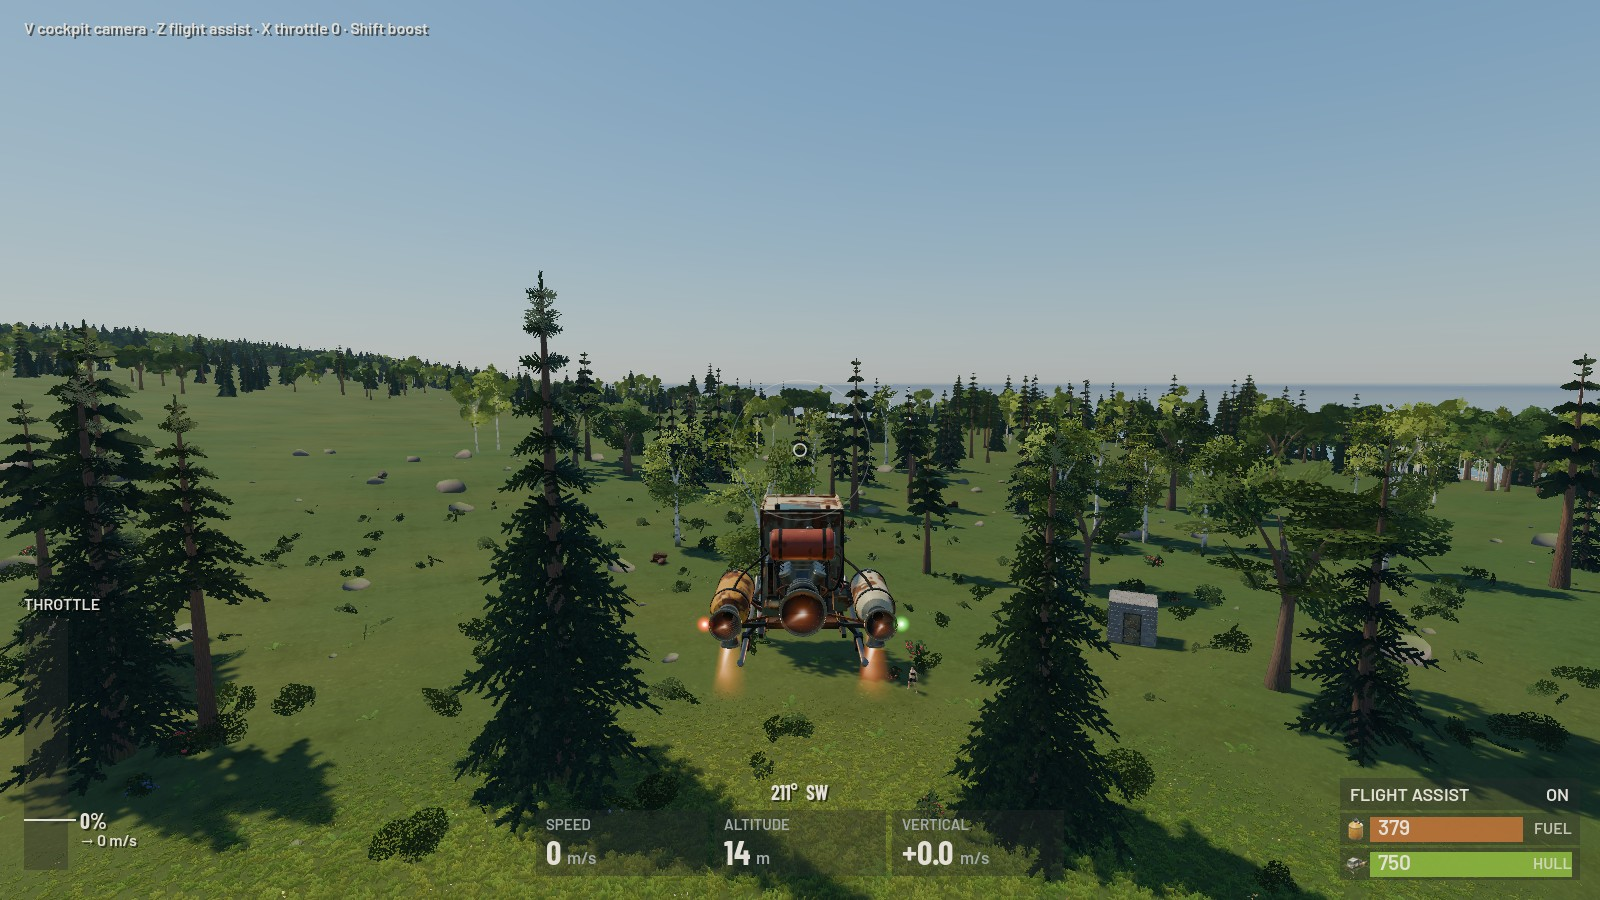
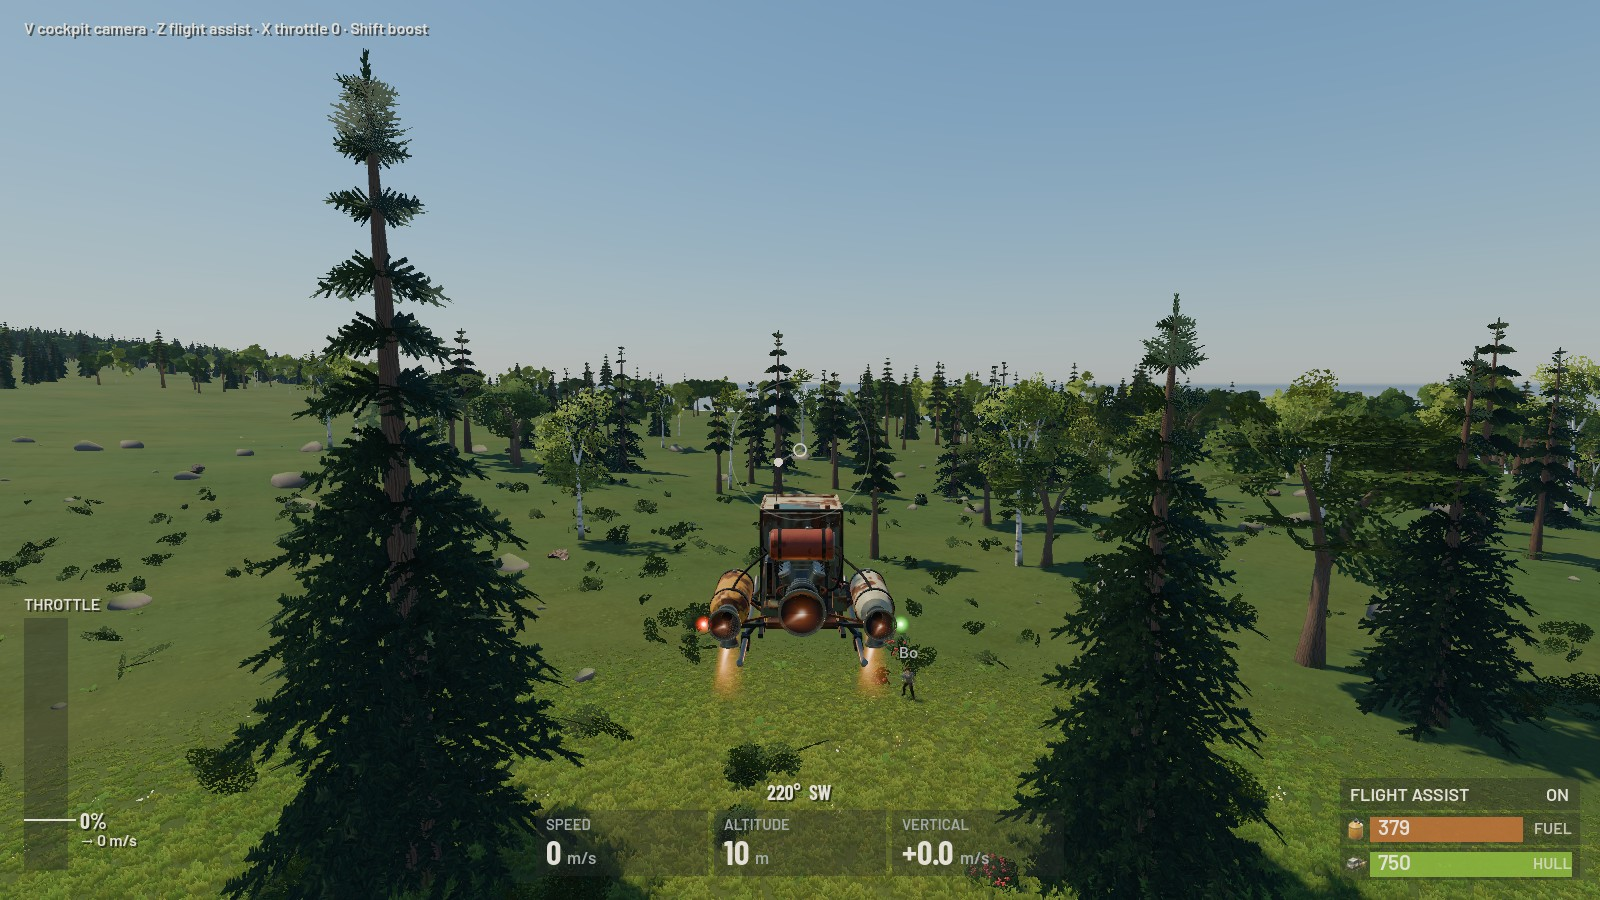
Ground pass 4: pictures from the whole tour, progress log
- The full screenshot run (all steps, two clients) after G7a: new pictures
  of the props, the recycler running with its lamp, the research table
  before and after; the chase camera retaken with the second player below.
- The tour's world step clears the inventory first, places the workbench,
  research table and bag where the ground allows (logging refusals), and
  takes the props from the clearest side.
- GROUND.md 5.6 pictures; progress log: pass 4 finished.

Build green, 145/145 tests (GunNetTests.GunfightOverTheNetwork timed out
once under the PC's load and passed on its own and in the next full run).

diff --git a/game/scripts/Ground/GroundTour.cs b/game/scripts/Ground/GroundTour.cs
@@ -28,10 +28,10 @@ namespace HollowUniverse.Ground;
 /// through the game at the landing site that saves one picture per moment (the HUD by berry bushes, picking berries,
 /// the inventory, crafting, the other player, chopping a tree and after, an outcrop, a rifle fired down the sights, a
 /// base being built with the plan's ghost, a finished hut with a code lock and its keypad, a timed charge on its wall
-/// and the blast, a firefight at the hut, the death screen, night by a fire) and
-/// quits; with <c>--tour guest</c>, a second client that dresses in what it is given, takes up its hatchet and
-/// faces the host, and fires a rifle it is given at the nearest building wall. Pictures are 1600 × 900 JPEG at the
-/// window's size.
+/// and the blast, a firefight at the hut, the Tin Finch crafted, boarded, flown and landed, G7's team, props, recycler,
+/// tech tree, research table and map, the death screen, night by a fire) and quits; with <c>--tour guest</c>, a second
+/// client that dresses in what it is given, takes up its hatchet and faces the host, fires a rifle it is given at the
+/// nearest building wall, and takes a team invite. Pictures are 1600 × 900 JPEG at the window's size.
 /// </summary>
 public partial class GroundTour : Node
 {
@@ -1074,6 +1074,16 @@ public partial class GroundTour : Node
     // with a node unlocked, a research table before and after, a blueprint read, and the map with markers and the team.
     private async Task World()
     {
+        // Room in the inventory: what the earlier steps left goes on the ground (the pictures are taken away from it).
+        for (int i = 0; i < Me.Inventory.Main.Size; i++)
+        {
+            if (!Me.Inventory.Main[i].IsEmpty)
+            {
+                Me.Drop(ContainerRef.Main, i, Me.Inventory.Main[i].Count);
+                await Seconds(0.2);
+            }
+        }
+        await Seconds(0.5);
         Admin("give", "stone-hatchet 1");
         Admin("give", "workbench-1 1");
         Admin("give", "research-table 1");
@@ -1101,7 +1111,7 @@ public partial class GroundTour : Node
             Me.CreateTeam();
             await Until(() => Me.Team != null, 5);
         }
-        (Num.Vector3 spot, Num.Vector3 towards) = OpenSpot(Client.Character.Position);
+        (Num.Vector3 spot, Num.Vector3 towards) = OpenSpot(Client.Character.Position + Forward() * 25);
         await TeleportTo(spot);
         RemoteEntity? guest = Client.Entities.FirstOrDefault(e => e.Name.Length > 0);
         if (guest != null)

diff --git a/docs/GROUND.md b/docs/GROUND.md
@@ -1001,7 +1001,8 @@ dotnet run -c Release --project tools/Hollow.Bots -- loadtest --count 100 --dura
   instead of 99.
 
 **Pictures** (`docs/images/ground/play/`, 1600 × 900, from the screenshot run `--tour`, AGENTS.md; retaken in pass 3
-with building, raiding and the effects library in the game, except `menu.jpg`):
+with building, raiding and the effects library in the game, except `menu.jpg`; pass 4 added the ship's and G7's, from
+its `ship` and `world` steps):
 
 | Picture | What it shows |
 |---|---|
@@ -1023,14 +1024,17 @@ with building, raiding and the effects library in the game, except `menu.jpg`):
 | `ship-craft.jpg` | Pass 4: the Tin Finch's recipe at a vehicle workbench (behind the menu): "VEHICLE WORKBENCH REQUIRED" in green, its five makings. |
 | `ship-boarding.jpg` | The Tin Finch rolled out onto the bench's bay (the builder told so in chat), its hatch open: "E BOARD TIN FINCH". |
 | `ship-cockpit.jpg` | The cockpit at 106 m/s, 59 m over the forest, with the flight HUD (speed, height, climb, heading, the lever, flight assist, fuel and hull). |
-| `ship-chase.jpg` | The chase camera hovering near the hut, the lift nozzles burning; the second player on the ground below, watching. |
+| `ship-chase.jpg` | The chase camera hovering 10 m up near the hut, the lift nozzles burning; the second player on the ground just below, watching. |
 | `ship-landed.jpg` | Landed beside the stone hut: "LANDED", and the keys to step out, work the hatch and lock it. |
 | `team-invite.jpg` | Pass 4, G7: a team made ("You made a team…"), the second player looked at: "E INVITE TO TEAM BO". |
 | `teammate.jpg` | "Bo joined the team.": 73 m off among the trees, her name in the team's green with how far. |
+| `loot-props.jpg` | The barrels and the crate nearest the landing site, at a forest edge, seen from the clearest side. |
 | `crate.jpg` | A world crate opened beside the barrels nearest the landing site: salvage, a hammer, cloth, gears. |
 | `recycler.jpg` | A recycler at work: gears and pipes in, salvage and metal fragments out, the batch's progress, TURN OFF. |
+| `recycler-running.jpg` | The recycler running, its green lamp lit on the body's top corner by the hopper: "E OPEN RECYCLER". |
 | `workbench.jpg` | A level 1 workbench placed in the meadow: "E OPEN TECH TREE". |
 | `techtree.jpg` | Its tech tree: the metal hatchet just unlocked ("Blueprint learnt: Metal hatchet."), the pickaxe after it ready for 125 of the 525 salvage. |
+| `research.jpg`, `research-done.jpg` | A research table: a pistol and 200 salvage in, "SERVICE PISTOL: 125 SALVAGE", BEGIN RESEARCH; ten seconds later the pistol's blueprint in its third slot, drawn in blueprint blue, 75 salvage left. |
 | `map.jpg` | The map (G) on the zone's parchment picture: the player, the teammate, a sleeping bag, two markers, the grid; the markers' and the team's panels beside it. |
 | `death.jpg` | The death screen over the zone's map: the body's skull, the sleeping bag beside it and its countdown. |
 | `night.jpg` | Night, by the catalogue's campfire, lit: the effects library's flames, embers and smoke, and its flickering light on the grass; the respawn kit on the belt. |

diff --git a/docs/progress-ground.md b/docs/progress-ground.md
@@ -293,3 +293,19 @@ Branch `ground`, in worktree `D:\GameDev\Projects\Hollow-wt\ground`. The plan an
   - teams of up to 8;
   - the map with markers.
 - **Next: server performance.** Ships streaming ground as they fly cost the server a lot on the real planet.
+
+## 13 October 2026, morning
+
+- **Integration pass 4 finished** (`ground-integrate`):
+  - the Tin Finch in the game: crafted at the vehicle workbench, it rolls out onto the bay; you board it through the
+    hatch and fly it from the cockpit or the chase camera, with the flight HUD in place of the belt; it hums, burns,
+    boosts, lands and crashes with its own sounds, and a wreck burns;
+  - G7a in the game: the map on G, on the zone's own parchment picture, with markers, teammates, bags and the last
+    death (the death screen draws it too); a workbench's tech tree on E; the recycler's and research table's panels;
+    barrels, crates and recyclers drawn, a running recycler's lamp and hum, a barrel breaking; blueprints learnt by
+    using them; teams, with the invite prompt and teammates' names in green at any distance; notices for blueprints
+    learnt, invites and team changes.
+
+  New pictures in `docs/images/ground/play/`: the ship's recipe, boarding, cockpit, chase camera and landing; a team
+  invite, a teammate far off, the props, a crate, the recycler, a workbench, its tech tree, the research table, the map
+  and the death screen. 145 of 145 tests pass.
